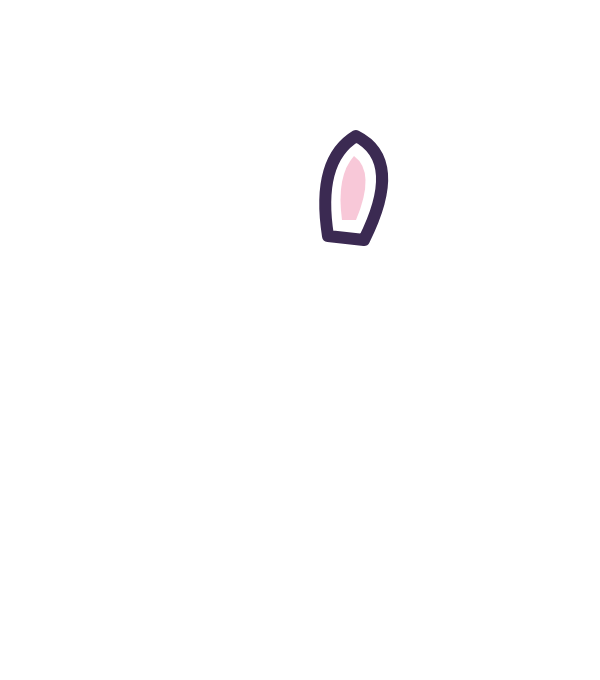
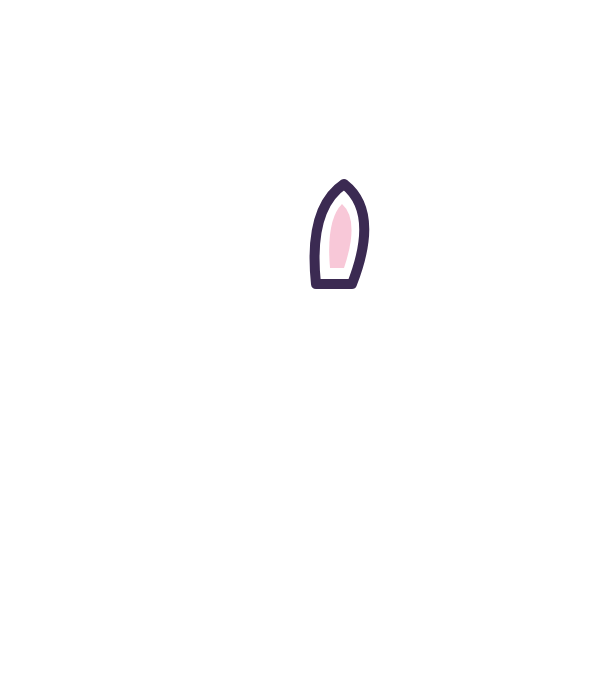
Reiter-Sicht v3 nach Pferde-Referenz: Widerrist breit, Hals läuft nach vorn weg, Genick mit Ohren, Horn dazwischen, kein Kopfbobbel
Claude-Session: https://claude.ai/code/session_0116aTJ5kU1Bg8G42BXxXNeb

Changed region(s): [[0.51, 0.1853, 0.66, 0.4324]]

diff --git a/game.js b/game.js
@@ -4,7 +4,7 @@
 (function(){
 'use strict';
 const P = window.PIXI;
-const VERSION='25';   // wird vom Release-Skript hochgezählt (Cache-Buster)
+const VERSION='26';   // wird vom Release-Skript hochgezählt (Cache-Buster)
 const clamp=(v,a,b)=>Math.max(a,Math.min(b,v));
 const lerp=(a,b,t)=>a+(b-a)*t;
 const easeOut=t=>1-Math.pow(1-t,3);
@@ -42,7 +42,7 @@ G.init=async function(host){
   host.appendChild(app.canvas);
   app.canvas.style.position='absolute'; app.canvas.style.inset='0'; app.canvas.style.touchAction='none';
   G.app=app;
-  const names=['cloud','star','spark','puff','ring','ringfill','sign','glint','body_side','leg','tail1','tail2','tail3','wing','neck','headR','earL2','earR2','horn2','hand2','mane0','mane1','mane2','mane3','mane4','mane5','mane6'];
+  const names=['cloud','star','spark','puff','ring','ringfill','sign','glint','body_side','leg','tail1','tail2','tail3','wing','neck','poll','earL2','earR2','horn2','hand2','mane0','mane1','mane2','mane3','mane4','mane5','mane6','mane7'];
   await P.Assets.load(names.map(n=>({alias:n, src:'assets/'+n+'.png?v='+VERSION})));
   names.forEach(n=>G.tex[n]=P.Assets.get(n));
   // Ebenen von hinten nach vorn
@@ -141,20 +141,20 @@ function buildLumi(){
   const part=(t,px,py)=>{ const sp=new P.Sprite(T[t]); sp.anchor.set(0); sp.position.set(-300,-680); if(px!==undefined){ sp.pivot.set(px,py); sp.position.set(px-300,py-680); } return sp; };
   L.neck=part('neck'); inner.addChild(L.neck);
   // Mähne liegt auf dem Hals: Strähnen wurzeln auf der Mittellinie, Pivot an der Wurzel
-  L.mane=[]; for(let i=6;i>=0;i--){ const m=part('mane'+i, 300, (96+i*24)*2+120); m.idx=i; inner.addChild(m); L.mane.push(m); }
-  L.head=part('headR'); inner.addChild(L.head);
-  L.earL=part('earL2', 256, 116+120); inner.addChild(L.earL);
-  L.earR=part('earR2', 344, 116+120); inner.addChild(L.earR);
-  L.horn=part('horn2', 300, 104+120); inner.addChild(L.horn);
-  const hl=new P.Sprite(T.hand2); hl.anchor.set(0.5,0.5); hl.position.set(-90,-60); inner.addChild(hl); L.handL=hl;
-  const hr=new P.Sprite(T.hand2); hr.anchor.set(0.5,0.5); hr.scale.x=-1; hr.position.set(96,-66); inner.addChild(hr); L.handR=hr;
+  L.mane=[]; for(let i=7;i>=0;i--){ const m=part('mane'+i, 300, (98+i*24+60)*2); m.idx=i; inner.addChild(m); L.mane.push(m); }
+  L.head=part('poll'); inner.addChild(L.head);
+  L.earL=part('earL2', 266, 284); inner.addChild(L.earL);
+  L.earR=part('earR2', 334, 284); inner.addChild(L.earR);
+  L.horn=part('horn2', 300, 280); inner.addChild(L.horn);
+  const hl=new P.Sprite(T.hand2); hl.anchor.set(0.5,0.5); hl.position.set(-120,-70); inner.addChild(hl); L.handL=hl;
+  const hr=new P.Sprite(T.hand2); hr.anchor.set(0.5,0.5); hr.scale.x=-1; hr.position.set(120,-76); inner.addChild(hr); L.handR=hr;
   L.funkel=new P.Sprite(T.spark); L.funkel.anchor.set(0.5); L.funkel.tint=0xFFE066; L.funkel.scale.set(0.9); inner.addChild(L.funkel);
   L.glints=[]; L.glintT=0;
 }
 function placeLumi(){
   const L=G.lumi; if(!L) return;
   // Hals füllt das untere Drittel, Kopf endet bei etwa 62 % der Höhe
-  L.baseScale=clamp(Math.min(G.W*0.72, G.H*0.44)/300, 0.5, 2.4);
+  L.baseScale=clamp(Math.min(G.W*0.95, G.H*0.42)/300, 0.5, 2.6);
   L.scale.set(L.baseScale);
   L.position.set(G.W/2+G.laneX, G.H+8);
 }
@@ -197,12 +197,12 @@ function animLumi(dt){
   L.rotation=rot; L.scale.set(L.baseScale*sc);
   // Kopf nickt im Galopp, Ohren zucken, Horn und Ohren wandern mit dem Kopf
   const ny=headNod*2;
-  L.head.position.y=-680+ny; L.earL.position.y=116+120-680+ny; L.earR.position.y=116+120-680+ny; L.horn.position.y=104+120-680+ny;
+  L.head.position.y=-680+ny; L.earL.position.y=284-680+ny; L.earR.position.y=284-680+ny; L.horn.position.y=280-680+ny;
   L.earL.rotation=-earK*0.8; L.earR.rotation=earK*0.8;
   L.horn.rotation=lean*0.04;
   // Mähnenkamm weht nach hinten (zum Reiter) und flattert mit Phasenversatz
   L.mane.forEach((m)=>{ const i=m.idx; m.rotation = 0.12*maneK + Math.sin(G.phase*1.1 - i*0.55)*0.09*(0.4+sp*0.4); m.scale.y = 1+Math.sin(G.phase*1.1-i*0.55)*0.06; });
-  L.funkel.position.set(-150+Math.sin(G.stateT*2.1)*16, -700+Math.cos(G.stateT*1.7)*14);
+  L.funkel.position.set(-130+Math.sin(G.stateT*2.1)*16, -520+Math.cos(G.stateT*1.7)*14);
   L.funkel.alpha=0.8+Math.sin(G.stateT*9)*0.2;
   // Kamera: wippt gegen den Galopp, legt sich in die Kurve
   if(G.cam){
@@ -214,7 +214,7 @@ function animLumi(dt){
   if(L.glintT>0.09 && !G.reduce){ L.glintT=0;
     const g=new P.Sprite(G.tex.glint); g.anchor.set(0.5);
     const onHorn=Math.random()<0.3;
-    g.position.set(onHorn? (Math.random()-0.5)*20 : 20+Math.random()*150, onHorn? -720-Math.random()*150 : -480+Math.random()*300);
+    g.position.set(onHorn? (Math.random()-0.5)*20 : 10+Math.random()*170, onHorn? -420-Math.random()*200 : -360+Math.random()*300);
     g.scale.set(0); g.age=0; g.life=0.5+Math.random()*0.4; g.rot=(Math.random()-0.5)*4; g.big=0.4+Math.random()*0.5;
     g.tint=[0xFFFFFF,0xFFF3C9,0xFFE9F5,0xE9F5FF][Math.floor(Math.random()*4)];
     L.inner.addChild(g); L.glints.push(g);

diff --git a/sw.js b/sw.js
@@ -1,6 +1,6 @@
 // Cache-Version bei jedem Release hochzählen
-const CACHE='einhorn-v25';
-const ASSETS=['./','./index.html','./manifest.webmanifest','./icon-192.png','./icon-512.png','./apple-touch-icon.png','./game.js','./vendor/pixi.min.js','./assets/body_side.png','./assets/cloud.png','./assets/earL2.png','./assets/earR2.png','./assets/glint.png','./assets/hand2.png','./assets/headR.png','./assets/horn2.png','./assets/leg.png','./assets/mane0.png','./assets/mane1.png','./assets/mane2.png','./assets/mane3.png','./assets/mane4.png','./assets/mane5.png','./assets/mane6.png','./assets/neck.png','./assets/puff.png','./assets/ring.png','./assets/ringfill.png','./assets/sign.png','./assets/spark.png','./assets/star.png','./assets/tail1.png','./assets/tail2.png','./assets/tail3.png','./assets/wing.png'];
+const CACHE='einhorn-v26';
+const ASSETS=['./','./index.html','./manifest.webmanifest','./icon-192.png','./icon-512.png','./apple-touch-icon.png','./game.js','./vendor/pixi.min.js','./assets/body_side.png','./assets/cloud.png','./assets/earL2.png','./assets/earR2.png','./assets/glint.png','./assets/hand2.png','./assets/horn2.png','./assets/leg.png','./assets/mane0.png','./assets/mane1.png','./assets/mane2.png','./assets/mane3.png','./assets/mane4.png','./assets/mane5.png','./assets/mane6.png','./assets/mane7.png','./assets/neck.png','./assets/poll.png','./assets/puff.png','./assets/ring.png','./assets/ringfill.png','./assets/sign.png','./assets/spark.png','./assets/star.png','./assets/tail1.png','./assets/tail2.png','./assets/tail3.png','./assets/wing.png'];
 self.addEventListener('install',e=>{e.waitUntil(caches.open(CACHE).then(c=>c.addAll(ASSETS)));self.skipWaiting();});
 self.addEventListener('activate',e=>{e.waitUntil(caches.keys().then(ks=>Promise.all(ks.filter(k=>k!==CACHE).map(k=>caches.delete(k)))));self.clients.claim();});
 self.addEventListener('fetch',e=>{

diff --git a/index.html b/index.html
@@ -481,7 +481,7 @@ textarea.backup{width:100%; height:90px; border:2px solid var(--line); border-ra
 <canvas id="fx"></canvas>
 
 <script src="vendor/pixi.min.js?v=8.6.6"></script>
-<script src="game.js?v=25"></script>
+<script src="game.js?v=26"></script>
 <script>
 'use strict';
 /* ================= LOGIC-START (pure, DOM-free, node-testable) ================= */
